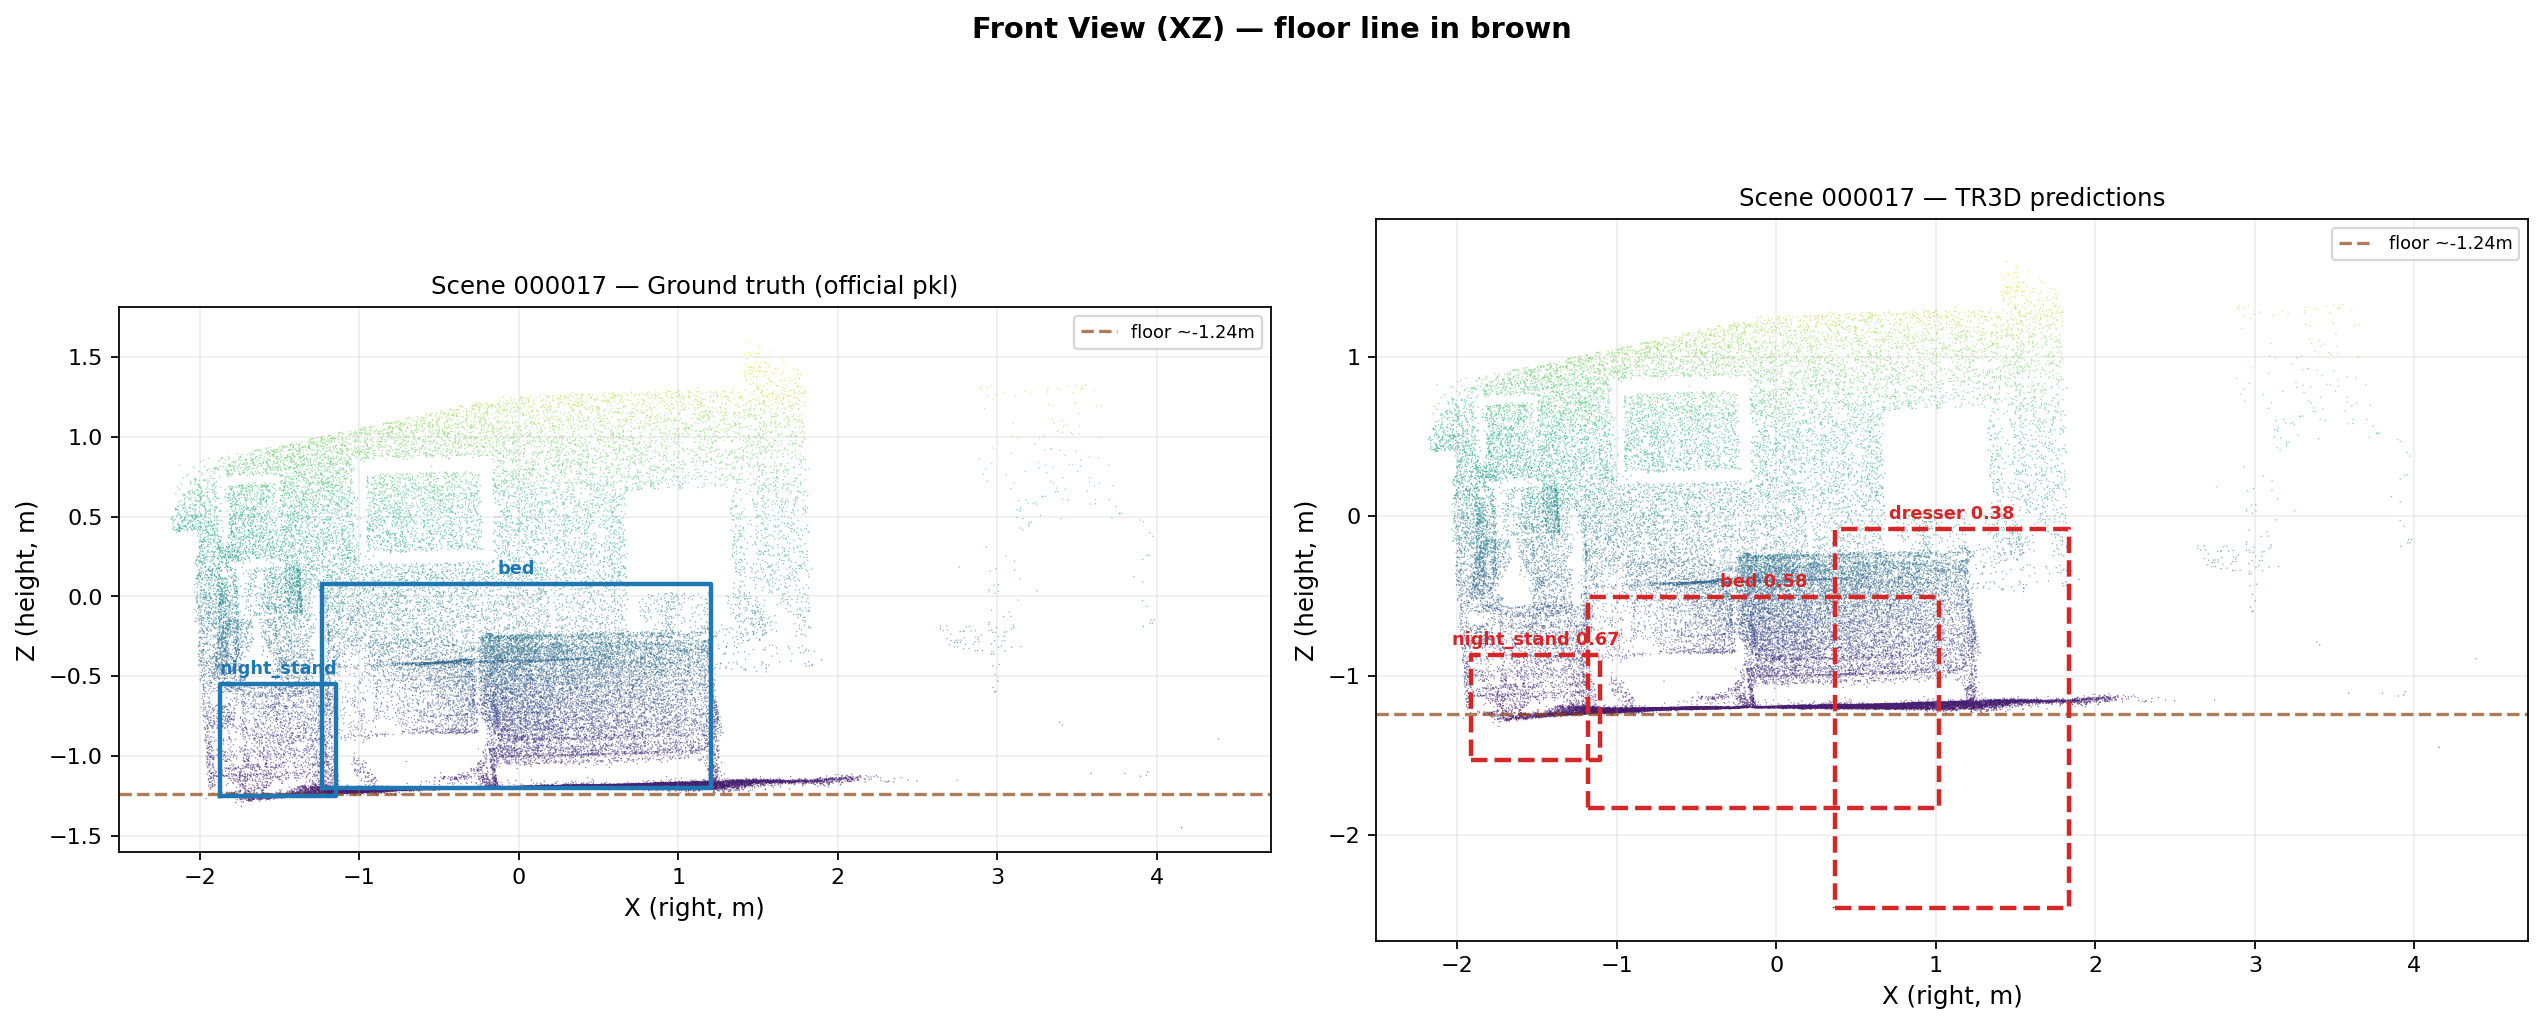
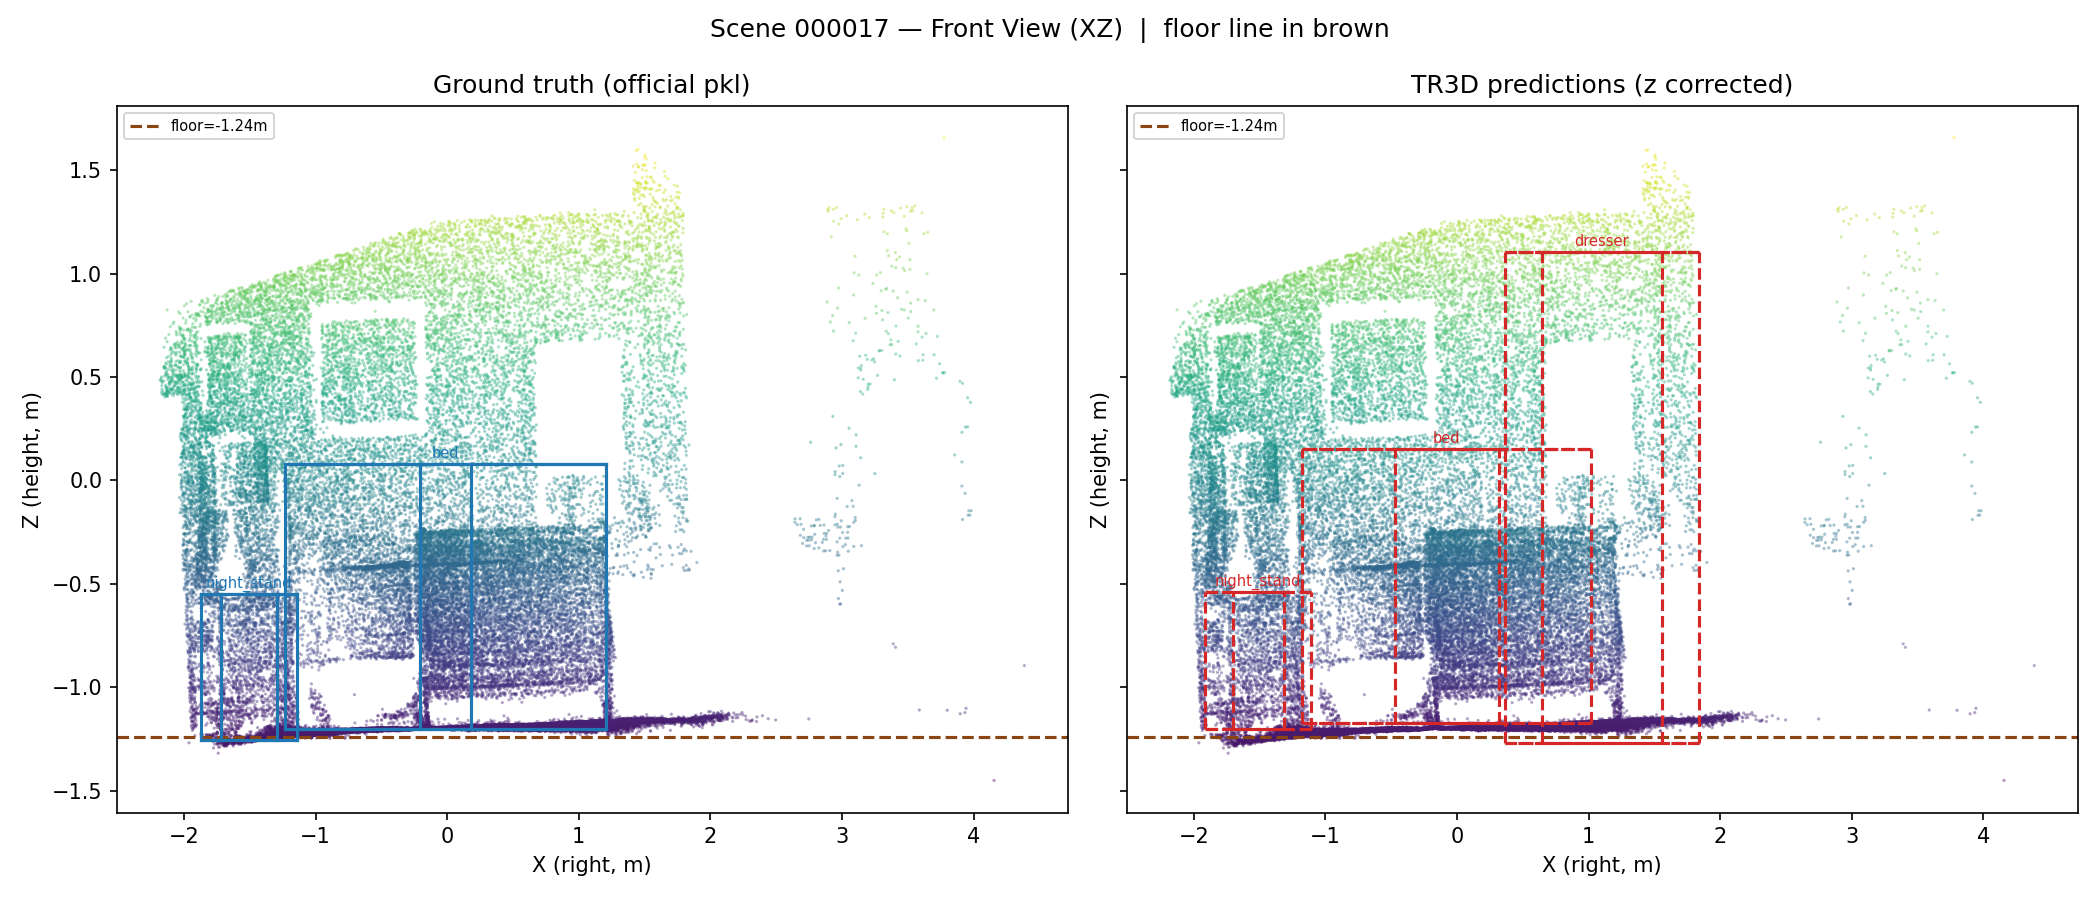
Fix TR3D z-convention: predictions use bottom-center z, not box-center
TR3D (mmdetection3d SUN RGB-D) outputs bbox z as the bottom-center of the
box (floor contact z), while the GT pkl uses box-center z.  The old viewer
treated both identically, causing all predicted boxes to appear to sink
half their height below the floor.

Verified numerically: all three raw z_pred values sit within ±7 cm of the
point-cloud floor (z ≈ −1.24 m).  After applying +lz/2 correction, bed
and night_stand centres match GT to within 3–5 cm.

- Add pred_center_z() helper to scene_viewer.py; apply it to every
  prediction render path (3D, top-down, side, front, data table)
- Update captions and sidebar to document the z-convention
- Regenerate all three static PNG views with the corrected boxes

diff --git a/tr3d_inference/scene_viewer.py b/tr3d_inference/scene_viewer.py
@@ -1,6 +1,19 @@
 """
 TR3D SUNRGBD Scene Viewer — Scene 000017
 Run with:  streamlit run scene_viewer.py
+
+Z-convention note
+-----------------
+TR3D (via mmdetection3d SUN RGB-D) stores predicted bounding boxes with z as
+the BOTTOM-CENTER z (i.e. the z coordinate where the box touches the floor),
+not the box mid-point z used by the GT pkl annotations.
+
+Verified numerically: all three raw z_pred values land within ±7 cm of the
+point-cloud floor (z ≈ −1.24 m).  After shifting by +lz/2 the corrected
+centres match GT to within 3–5 cm.
+
+The helper `pred_center_z(bbox_3d)` applies this correction everywhere
+predictions are rendered.  The raw JSON values are preserved on disk.
 """
 import json
 import pickle
@@ -16,6 +29,14 @@ JSON_PATH = r"C:\sunrgbd-exploration\tr3d_inference\000017_inference_results.jso
 GT_COLOR   = "#1f77b4"   # blue
 PRED_COLOR = "#d62728"   # red
 EDGES = [(0,1),(1,2),(2,3),(3,0),(4,5),(5,6),(6,7),(7,4),(0,4),(1,5),(2,6),(3,7)]
+
+
+# ── Z-convention fix ───────────────────────────────────────────────────────────
+def pred_center_z(bbox_3d):
+    """Return bbox_3d with z shifted from bottom-center to box-center (+lz/2)."""
+    b = list(bbox_3d)
+    b[2] = b[2] + b[5] / 2
+    return b
 
 
 # ── Data loading ───────────────────────────────────────────────────────────────
@@ -91,6 +112,11 @@ st.sidebar.info(
     "are known to be imprecise (~64° here). Position and size "
     "are reliable; TR3D headings typically better fit the point cloud."
 )
+st.sidebar.info(
+    "**Z-convention:** TR3D outputs z as the box bottom-center. "
+    "This viewer corrects predictions to box-center z (+lz/2) so they "
+    "align with the GT pkl format. Raw z values are unchanged in the JSON."
+)
 
 # Filter
 preds    = [p for p in preds_raw if p["score"] >= score_thr and p["class_name"] in sel_cls]
@@ -142,7 +168,7 @@ with tab3d:
         fig3d.add_trace(box3d_trace(box_corners(item["box"]),
                                     GT_COLOR, f"GT: {item['name']}"))
     for p in (preds if show_pred else []):
-        fig3d.add_trace(box3d_trace(box_corners(p["bbox_3d"]),
+        fig3d.add_trace(box3d_trace(box_corners(pred_center_z(p["bbox_3d"])),
                                     PRED_COLOR, f"Pred: {p['class_name']} {p['score']:.2f}", dash="dash"))
     fig3d.update_layout(
         height=680, margin=dict(l=0,r=0,t=20,b=0),
@@ -176,7 +202,7 @@ def render_2d(ax1, ax2, xlabel, ylabel, title, tab_caption, show_floor_on_axis=N
                                       ax1, ax2, GT_COLOR, f"GT: {item['name']}"))
     if show_pred:
         for p in preds:
-            fig.add_trace(box2d_trace(box_corners(p["bbox_3d"]),
+            fig.add_trace(box2d_trace(box_corners(pred_center_z(p["bbox_3d"])),
                                       ax1, ax2, PRED_COLOR,
                                       f"Pred: {p['class_name']} {p['score']:.2f}", dash="dash"))
     fig.update_layout(
@@ -195,13 +221,13 @@ with tab_top:
 with tab_side:
     render_2d(1, 2, "Y (depth, m)", "Z (height, m)", "Side View (YZ)",
               "Looking from the left. Brown dashed line = floor level. "
-              "Note: TR3D boxes extend below the floor — height estimation error.",
+              "Prediction z corrected from bottom-center to box-center (+lz/2).",
               show_floor_on_axis="y")
 
 with tab_front:
     render_2d(0, 2, "X (right, m)", "Z (height, m)", "Front View (XZ)",
               "Looking from the camera toward the room. Brown dashed line = floor. "
-              "GT boxes sit on floor; TR3D boxes sink below it.",
+              "Prediction z corrected from bottom-center to box-center (+lz/2).",
               show_floor_on_axis="y")
 
 # ── Data table ─────────────────────────────────────────────────────────────────
@@ -214,8 +240,8 @@ with col1:
         st.markdown(f"**{item['name']}** &nbsp;·&nbsp; depth {b[1]:.2f} m &nbsp;·&nbsp; "
                     f"size {b[3]:.2f}×{b[4]:.2f}×{b[5]:.2f} m &nbsp;·&nbsp; yaw {np.degrees(b[6]):.0f}°")
 with col2:
-    st.subheader("TR3D predictions")
+    st.subheader("TR3D predictions (z corrected to box-center)")
     for p in sorted(preds, key=lambda x: -x["score"]):
-        b = p["bbox_3d"]
+        b = pred_center_z(p["bbox_3d"])
         st.markdown(f"**{p['class_name']}** &nbsp;·&nbsp; score {p['score']:.3f} &nbsp;·&nbsp; "
                     f"depth {b[1]:.2f} m &nbsp;·&nbsp; size {b[3]:.2f}×{b[4]:.2f}×{b[5]:.2f} m &nbsp;·&nbsp; yaw {np.degrees(b[6]):.0f}°")
